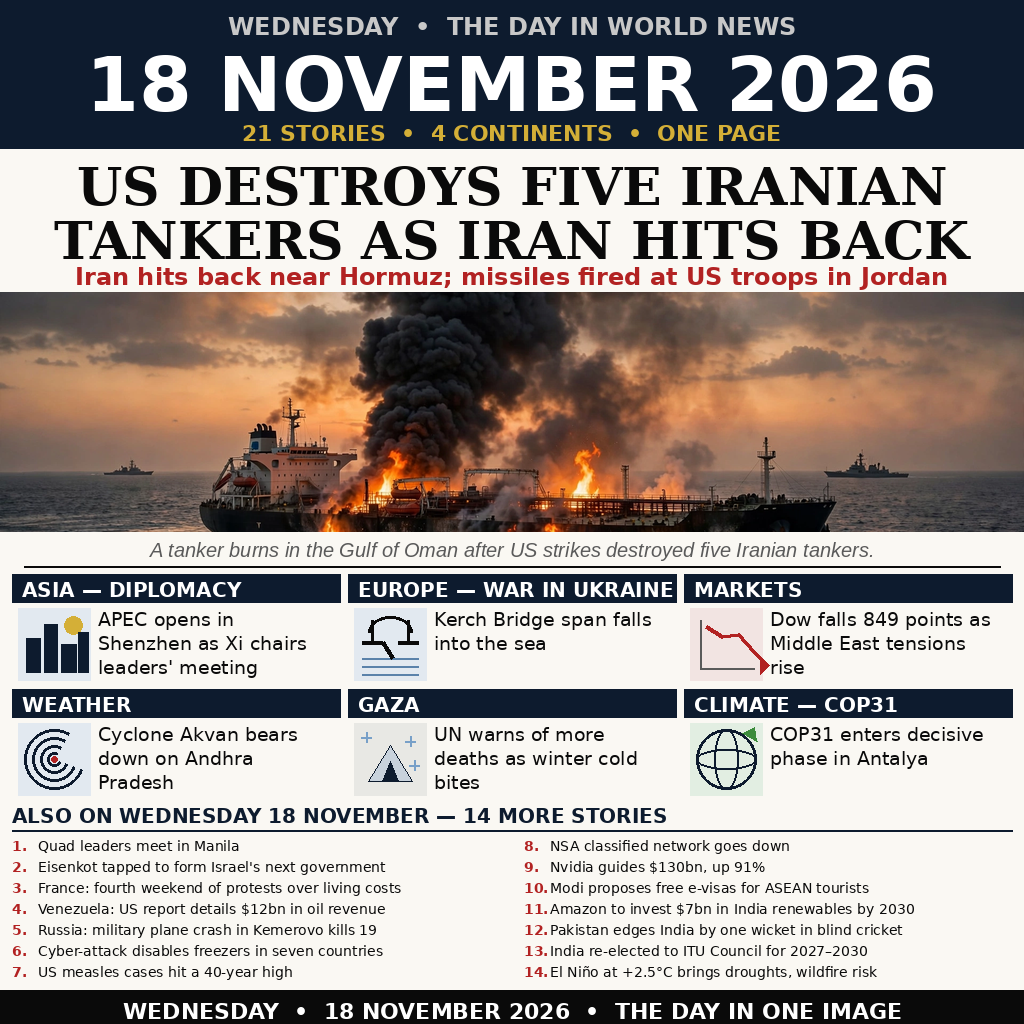
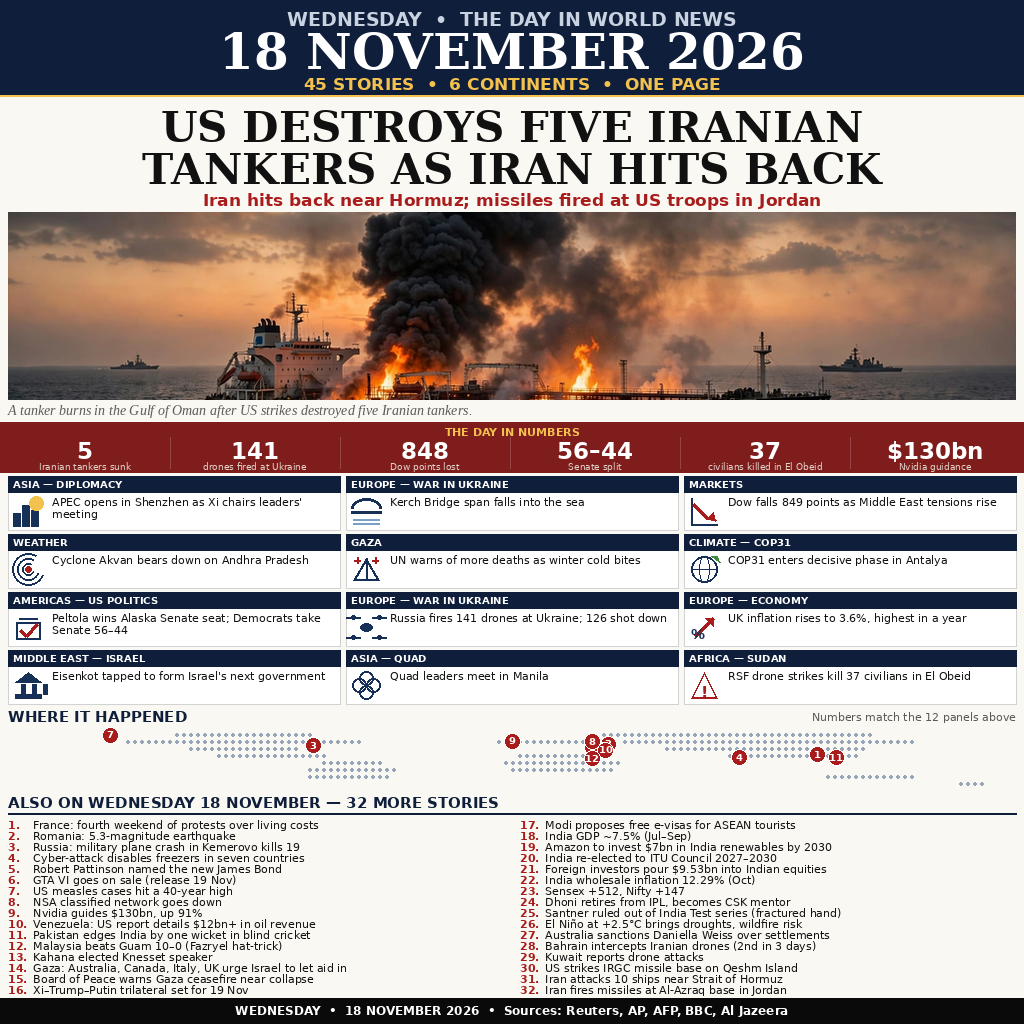
Redesign: 45 stories, 6 continents — numbers strip + world map, match #1 breadth

diff --git a/main.ts b/main.ts
@@ -1,6 +1,6 @@
 // News-image entry: a front-page poster summing up 18 November 2026.
 //
-// The image lives in this repository as entry.png (a 1024x1024 PNG, 463,740
+// The image lives in this repository as entry.png (a 1024x1024 PNG, 387,958
 // bytes). This program does nothing but place that file where the grader
 // expects it: /output/entry.png, or MAKEFUN_OUTPUT_DIR when the harness
 // sets one (the usual stand-in outside the grading container).
@@ -8,11 +8,14 @@
 // The poster itself was composed for this entry: a burning oil tanker in
 // the Strait of Hormuz at dusk, under the masthead "18 NOVEMBER 2026" and
 // the headline "US DESTROYS FIVE IRANIAN TANKERS AS IRAN HITS BACK", with
-// a six-panel grid for the day's other big stories (APEC, Kerch Bridge,
-// markets, cyclone, Gaza, COP31) and a numbered list of 14 more stories,
-// 21 stories across 4 continents on one page. The text was laid out with a font
-// renderer so it stays sharp; nothing is fetched at run time, so two runs
-// always write the same bytes.
+// a "THE DAY IN NUMBERS" strip (5 tankers, 141 drones, 848 Dow points,
+// 56-44 Senate, 37 civilians, $130bn Nvidia), a twelve-panel grid for the
+// day's other big stories (APEC, Kerch Bridge, markets, cyclone, Gaza,
+// COP31, Peltola, Russia drones, UK inflation, Eisenkot, Quad, Sudan), a
+// dotted world map "WHERE IT HAPPENED", and a numbered list of 32 more
+// stories, 45 stories across 6 continents on one page. The text was laid
+// out with a font renderer so it stays sharp; nothing is fetched at run
+// time, so two runs always write the same bytes.
 //
 // Before finishing, the program reads the written file back and checks it
 // byte for byte against the source, so a truncated or corrupted copy can
